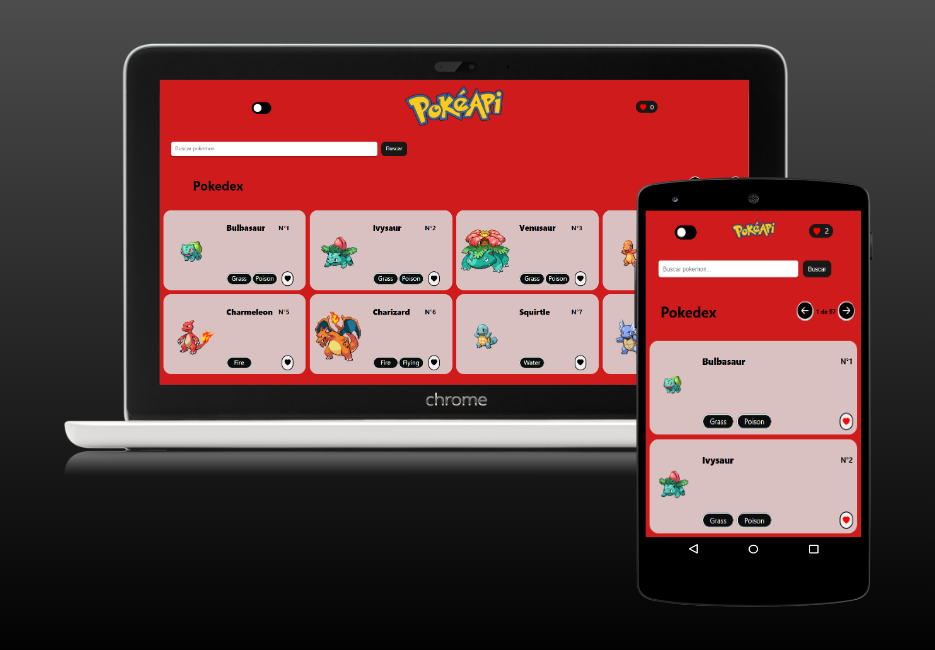
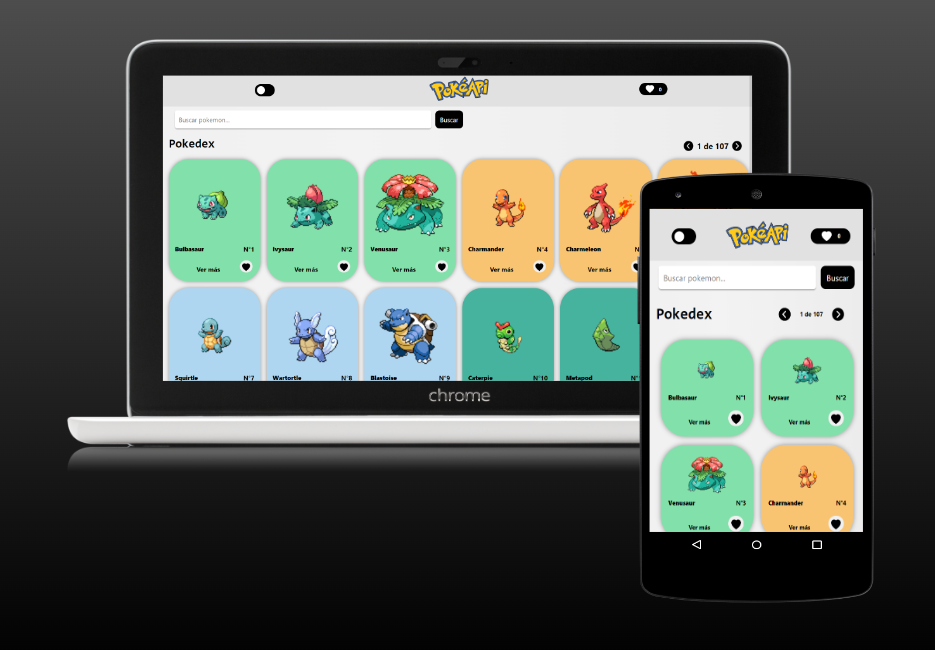
Se refactoriza codigo y se modifica datos a proyecto Pokedex, mas cambios por estilo

diff --git a/src/components/AboutMe.jsx b/src/components/AboutMe.jsx
@@ -4,9 +4,7 @@ import foto from '../assets/img/foto.jpeg';
 import WOW from 'wowjs';
 import '../styles/AboutMe.css';
 
-const AboutMe = ( props ) => {
-
-    const { theme } = props;
+const AboutMe = ({ theme }) => {
 
     useEffect(() => {
         new WOW.WOW({
@@ -26,7 +24,7 @@ const AboutMe = ( props ) => {
                         <img className='foto' src={foto} alt="logo" />
                     </div> 
                     <div className='text-box span1 wow animate__animated animate__zoomIn animate__delay-0.5s'>    
-                        <p>¡Hola! Me llamo Fabricio y soy de Buenos Aires, Argentina. Soy Desarrollador Web Full Stack y estoy en busca de mi primera experiencia laboral en IT. Actualmente soy estudiante avanzado de la Tecnicatura Universitaria en Programación Informática de la Universidad Nacional de Quilmes, y durante este período aprendí tecnologías tanto de Frontend como de Backend. </p> 
+                        <p>¡Hola! Me llamo Fabricio y soy de Buenos Aires, Argentina. Soy Desarrollador Web Full Stack y estoy en busca de mi primera experiencia laboral IT. Actualmente soy estudiante avanzado de la Tecnicatura Universitaria en Programación Informática de la Universidad Nacional de Quilmes, y durante este período aprendí tecnologías tanto de Frontend como de Backend. </p> 
                         <p>Me considero una persona responsable, creativa, detallista y con muchas ganas de seguir aprendiendo nuevas habilidades y tecnologías para mi desarrollo profesional. También tengo un fuerte compromiso con los proyectos que me asignan, con el trabajo en equipo, y doy lo mejor de mí para completar las tareas con el mejor resultado posible.</p>
                         <p>He desarrollado varios proyectos utilizando diferentes lenguajes y tecnologías, tengo experiencia y un buen manejo en lo que respecta al trabajo en equipo, tambien tengo conocimientos sobre las metodologías ágiles (SCRUM).</p>
                     </div>

diff --git a/src/components/Contact.jsx b/src/components/Contact.jsx
@@ -6,9 +6,7 @@ import { MdEmail } from "react-icons/md"
 import WOW from 'wowjs';
 import '../styles/Contact.css';
 
-const Contact = ( props ) => {
-
-    const { theme } = props;
+const Contact = ({ theme }) => {
 
     useEffect(() => {
         new WOW.WOW({
@@ -22,7 +20,7 @@ const Contact = ( props ) => {
             <div className='contact-container' data-theme={theme}>
                 <p className='title-box wow animate__animated animate__zoomIn'> CONTACTAME</p>
                 <div className='box-form wow animate__animated animate__zoomIn'>
-                    <a href="https://drive.google.com/file/d/1M4t4gMeNHhtiReoUMepGMdFlsrD5xA5C/view?usp=sharing" className='button-contact hvr-sweep-to-right'><IoIosPaper size={30} className="icon-contact"/> Mi Curriculum Vitae</a> 
+                    <a href="https://drive.google.com/file/d/1G2flSVyitVMo85QCV5juiW6vlxzHHfIe/view?usp=sharing" className='button-contact hvr-sweep-to-right'><IoIosPaper size={30} className="icon-contact"/> Mi Curriculum Vitae</a> 
                     <a href="mailto:fabricio.gm1993@gmail.com" className='button-contact hvr-sweep-to-right'><MdEmail size={30} className="icon-contact "/> fabricio.gm1993@gmail.com</a> 
                     <a href="https://www.linkedin.com/in/fabricio-marote/" className='button-contact hvr-sweep-to-right'><FaLinkedin size={30} className="icon-contact"/> /fabricio-marote</a> 
                     <a href="https://github.com/fabriciomarote" className='button-contact hvr-sweep-to-right'><FaGithub size={30} className="icon-contact"/> /fabriciomarote</a> 

diff --git a/src/styles/Project.css b/src/styles/Project.css
@@ -36,18 +36,9 @@
   border-radius: 10px;
   box-shadow: 0px 0px 20px 10px rgba(0, 0, 0, 0.4);
 }
-.arrow-right { 
-  top: 40%;
-  right: 370px;
-}
-.arrow-left {
-  top: 40%;
-  left: 370px;
-  user-select: none;
-}
 .arrow-right, .arrow-left {
   position: absolute;
-  color: rgba(255, 255, 255, 0.3);
+  color: rgba(192, 188, 188, 0.3);
   font-size: 3.5rem;
   z-index: 10;
   cursor: pointer;
@@ -192,7 +183,6 @@
   -webkit-transition-timing-function: cubic-bezier(0.52, 1.64, 0.37, 0.66);
   transition-timing-function: cubic-bezier(0.52, 1.64, 0.37, 0.66);
 }
-
 #not-active { 
   pointer-events: none; 
   cursor: default; 
@@ -215,12 +205,12 @@
     z-index: 10;
     text-align: center;
     height: 80vh;
-    padding-top: 0px;
+    padding-top: 60px;
   }
   .title-project {
     font-size: 35px;
     font-weight: 700;
-    padding-bottom:30px;
+    padding-bottom:0px;
   }
   .images-container {
     display: flex;
@@ -235,19 +225,15 @@
     box-shadow: 0px 0px 20px 10px rgba(0, 0, 0, 0.4);
   }
   .arrow-right { 
-    top: 40%;
+    top: 36%;
     right: 370px;
   }
   .arrow-left {
-    top: 40%;
+    top: 36%;
     left: 370px;
   }
   .arrow-right, .arrow-left {
     font-size: 3.5rem;
-  }
-  .text-project {
-    font-size: 17px;
-    font-weight: 500;
   }
   .techs {
     font-size: 20px;
@@ -262,7 +248,7 @@
     font-weight: 600;
   }
   .text-project {
-    font-size: 17px;
+    font-size: 13px;
     color: var(--text-primary);
     font-family:inherit;
     font-weight: 500;

diff --git a/src/components/Home.jsx b/src/components/Home.jsx
@@ -2,19 +2,17 @@
 import React from 'react';
 import '../styles/Home.css';
 
-const Home = ( props ) => {
-
-    const { theme } = props;
+const Home = ({ theme }) => {
 
     return (
         <>
             <a href="#home" name='home'/>
             <div className='home-container col-xs-12 col-sm-12 col-md-12 col-lg-12 col-xl-12' data-theme={theme}>
                 <div className='box-home col-xs-12 col-sm-12 col-md-12 col-lg-12 col-xl-12'>
-                    <span className='animate__animated animate__lightSpeedInLeft animate__delay-2s'>Hola,</span>
-                    <span className='animate__animated animate__lightSpeedInLeft animate__delay-2s'>Soy Fabricio.</span>
-                    <span className='span1 animate__animated animate__lightSpeedInRight animate__delay-2s'>Desarrollador Web</span>
-                    <span className='span1 animate__animated animate__lightSpeedInRight animate__delay-2s'>Full Stack</span>
+                    <span className='animate__animated animate__lightSpeedInLeft animate__delay-1s'>Hola,</span>
+                    <span className='animate__animated animate__lightSpeedInLeft animate__delay-1s'>Soy Fabricio.</span>
+                    <span className='span1 animate__animated animate__lightSpeedInRight animate__delay-1s'>Desarrollador Web</span>
+                    <span className='span1 animate__animated animate__lightSpeedInRight animate__delay-1s'>Full Stack</span>
                 </div> 
             </div>
         </>

diff --git a/src/data/Projects.js b/src/data/Projects.js
@@ -3,6 +3,9 @@ import Pokedex1 from "../assets/img/projects/Pokedex1.png";
 import Pokedex2 from "../assets/img/projects/Pokedex2.png";
 import Pokedex3 from "../assets/img/projects/Pokedex3.png";
 import Pokedex4 from "../assets/img/projects/Pokedex4.png";
+import Pokedex5 from "../assets/img/projects/Pokedex5.png";
+import Pokedex6 from "../assets/img/projects/Pokedex6.png";
+import Pokedex7 from "../assets/img/projects/Pokedex7.png";
 import PPTLS from "../assets/img/projects/PPTLS.png";
 import PPTLS1 from "../assets/img/projects/PPTLS1.png";
 import PPTLS2 from "../assets/img/projects/PPTLS2.png";
@@ -50,8 +53,8 @@ const projects = [
     {
       id: 1,
       image: Pokedex,
-      images: [Pokedex1, Pokedex2, Pokedex3, Pokedex4 ], 
-      link1: "https://pokedex-web-self.vercel.app",
+      images: [Pokedex1, Pokedex2, Pokedex3, Pokedex4, Pokedex5, Pokedex6, Pokedex7], 
+      link1: "https://pokedex-app-web.vercel.app",
       link2: "https://github.com/fabriciomarote/Pokedex",
       title: "Pokedex",
       techs: ["Javascript","HTML", "CSS", "React", "Bootstrap"],

diff --git a/src/components/Navbar2.jsx b/src/components/Navbar2.jsx
@@ -1,11 +1,12 @@
 import React from "react";
+import { useNavigate } from "react-router-dom";
 import { BsFillSunFill, BsFillMoonFill } from "react-icons/bs";
 import logo from '../assets/img/logos/logo.png';
 import '../styles/NavBar.css';
 
-const Navbar2 = ( props ) => {
+const Navbar2 = ({ theme, setTheme }) => {
 
-    const { theme, setTheme } = props;
+    const navigate = useNavigate();
 
     const changeMode = () => {
         let newTheme = theme === "light" ? "dark" : "light";
@@ -21,6 +22,7 @@ const Navbar2 = ( props ) => {
                             <a href="/" className='logo'><img src={logo} alt="logo" /></a>
                         </div>
                         <div className="theme-3">
+                            <a onClick={() => navigate(-1)} className="btn-btn">Volver</a> 
                             <div className='icon-theme' onClick={() => changeMode()}>
                                 { theme === "dark" ? <BsFillMoonFill className='icon-dark' size={25}/> : <BsFillSunFill className='icon-light' size={25}/>}
                             </div>

diff --git a/src/components/InvalidRoute.jsx b/src/components/InvalidRoute.jsx
@@ -3,9 +3,8 @@ import { useNavigate } from 'react-router-dom'
 import { TbError404 } from "react-icons/tb";
 import '../styles/InvalidRoute.css'
 
- const InvalidRoute = ( props ) => {
+ const InvalidRoute = ({ theme }) => {
 
-    const { theme } = props;
     const navigate = useNavigate();
 
     return (
@@ -17,7 +16,7 @@ import '../styles/InvalidRoute.css'
                     <h5>No se ha podido encontrar la página solicitada</h5>
                 </div>
                 <div className='box-btn'>
-                    <button className='btn-invalid hvr-rectangle-out' onClick={ ()=> navigate('/')}>Volver al inicio</button>
+                    <button className='btn-invalid hvr-rectangle-out' onClick={ () => navigate('/')}>Volver al inicio</button>
                 </div>
             </div>
             <div className="background-animated">

diff --git a/src/components/NavBar.jsx b/src/components/NavBar.jsx
@@ -3,9 +3,7 @@ import { BsFillSunFill, BsFillMoonFill } from "react-icons/bs";
 import logo from '../assets/img/logos/logo.png';
 import '../styles/NavBar.css';
 
-const Navbar = ( props ) => {
-
-    const { theme, setTheme } = props;
+const Navbar = ({ theme, setTheme }) => {
 
     const changeMode = () => {
         let newTheme = theme === "light" ? "dark" : "light";

diff --git a/src/styles/Home.css b/src/styles/Home.css
@@ -30,17 +30,13 @@
   margin-top: 120px;
 }
 
-@media only screen and (min-width: 1200px) {
-
-}
-
 @media only screen and (min-width:721px) and (max-width: 1199px) {
   .home-container {
     min-width:99vw;
     min-height: 90vh;
   }
   .animate__lightSpeedInLeft, .animate__lightSpeedInRight {
-    --animate-duration: 2s;
+    --animate-duration: 4s;
   }
 }
 

diff --git a/src/components/App.jsx b/src/components/App.jsx
@@ -9,9 +9,7 @@ import Footer from '../components/Footer';
 import ScrollButton from '../components/scroll/ScrollButton.jsx';
 import '../styles/App.css';
 
-const App = ( props ) => {
-
-  const { theme, setTheme } = props;
+const App = ({ theme, setTheme }) => {
 
   return (
       <div className='app' data-theme={theme}>

diff --git a/src/components/ModelProject.jsx b/src/components/ModelProject.jsx
@@ -1,9 +1,7 @@
 import React from "react";
 import '../styles/ModelProject.css';
 
-const ModelProject = ( props ) => {
-
-    const { project } = props;
+const ModelProject = ({ project }) => {
 
     return (
         <div className="modelProject-container wow animate__animated animate__flipInY animate__delay-0.5s">

diff --git a/src/styles/NavBar.css b/src/styles/NavBar.css
@@ -124,6 +124,13 @@
     display: flex;
     flex-direction: row;
   }
+  .theme-3 {
+    display: flex;
+    flex-direction: row;
+    justify-content: center;
+    align-items: center;
+    gap: 2rem;
+  }
   .theme-1 {
     display: none;
   }
